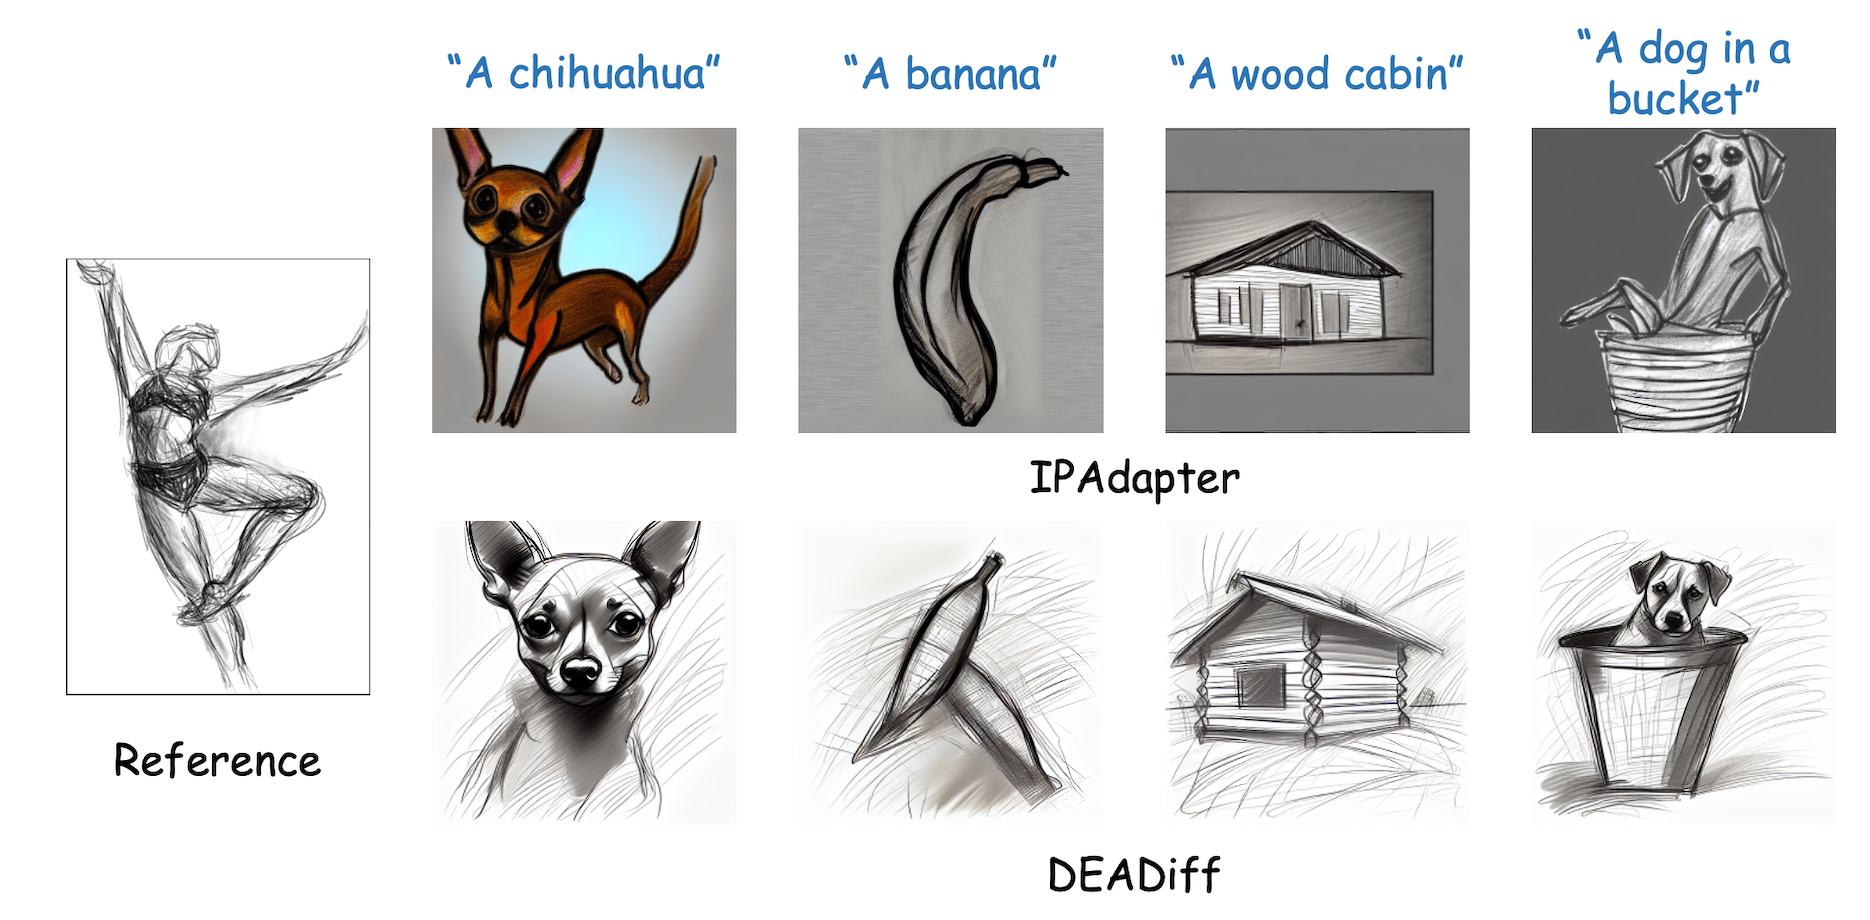
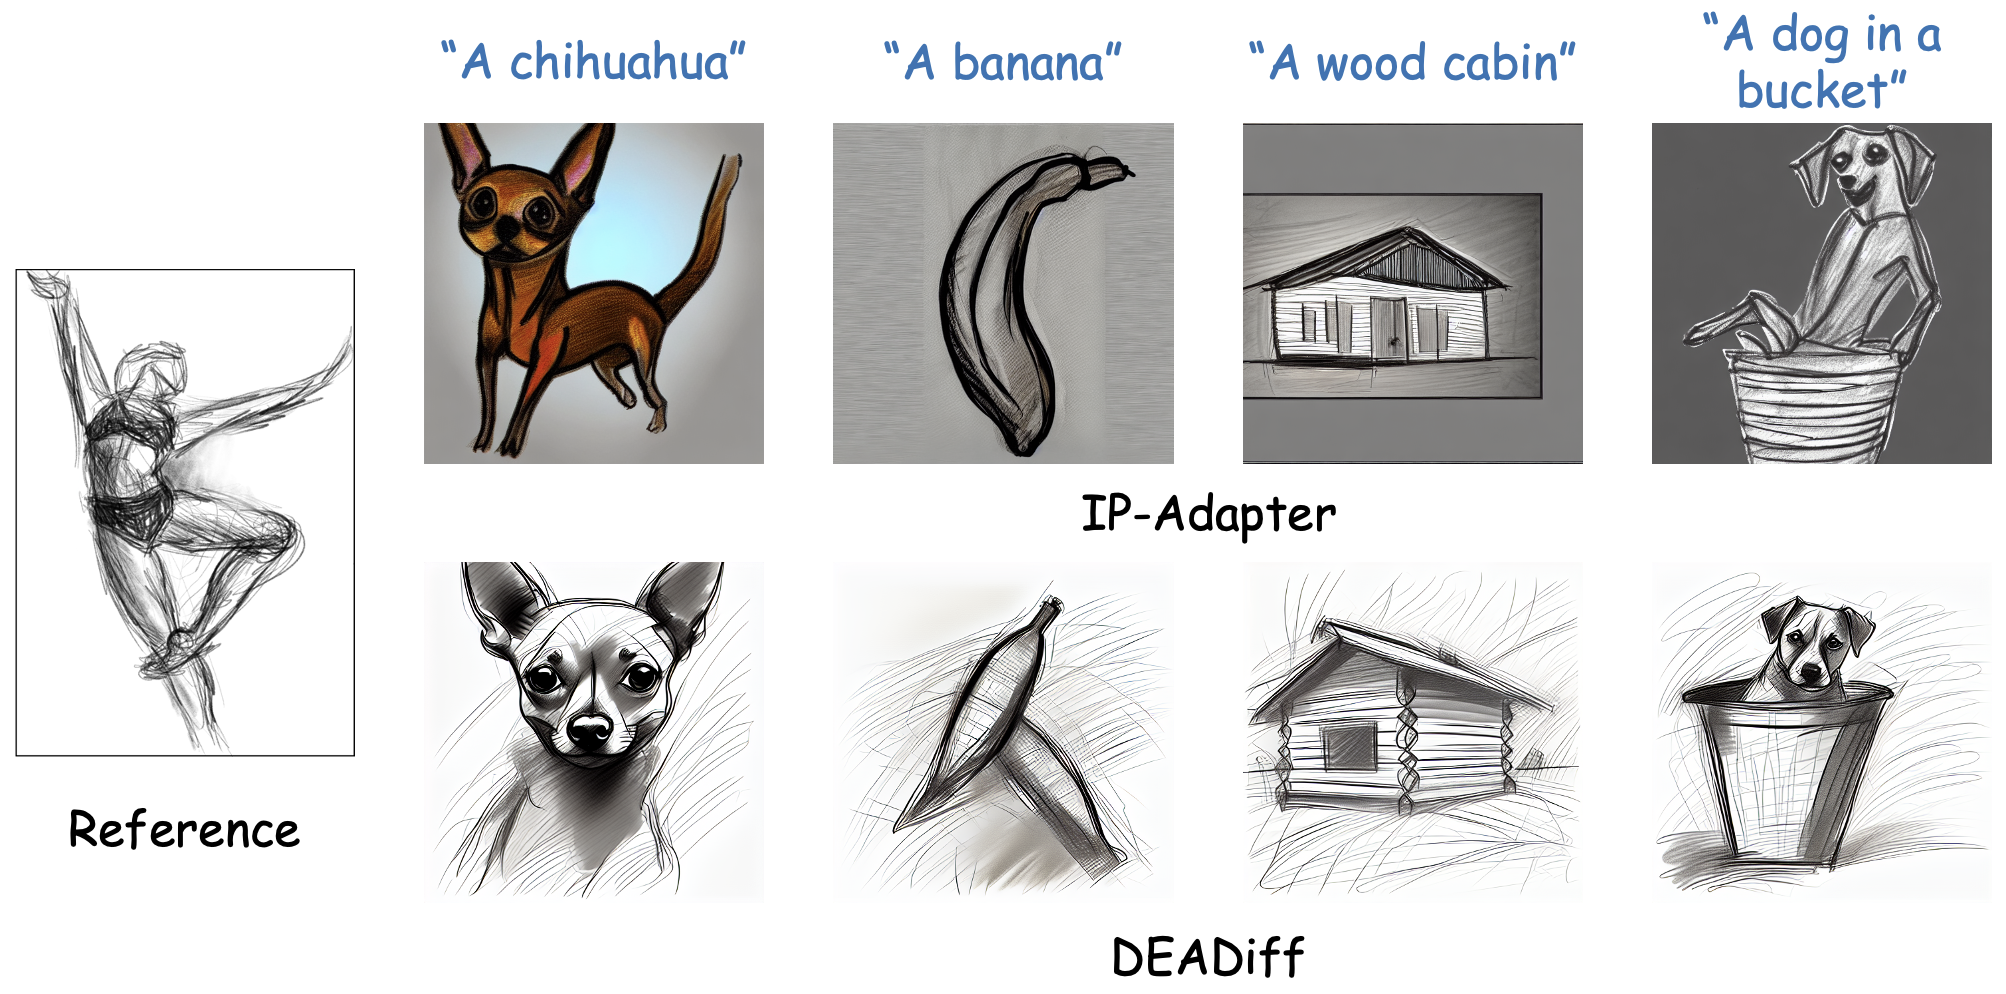
fix typos

diff --git a/index.html b/index.html
@@ -172,13 +172,13 @@
             <div class="content has-text-justified">
               <td colspan="3">
                 <p>
-                  <b>Core Idea:</b> To remove the interference of semantics from the reference image, only extract its style-relevant features and inject them into the layers responsible for capturing style features in the diffusion UNet.
+                  <b>Core Idea:</b> To remove the interference of semantics from the reference image, only extract its style-relevant features and inject them into the layers responsible for capturing style features in the diffusion U-Net.
                 </p>
                 <p>
-                  <b>Training paradigm:</b> Instruct the Q-Former on the condition of "style" and "condition" to selectively extract corresponding features and inject them into mutually exclusive subsets of cross-attention layers for better disentanglement between semantics and styles. Our constructed training dataset with three distinct types of paired reference and target image is utilized to equip the Q-Former with the capability of disentangled representation extraction.
+                  <b>Training Paradigm:</b> Instruct the Q-Former on the condition of "style" and "content" to selectively extract corresponding features and inject them into mutually exclusive subsets of cross-attention layers for better disentanglement between semantics and styles. Our constructed training dataset with three distinct types of paired reference and target image is utilized to equip the Q-Former with the capability of disentangled representation extraction.
                 </p>
                 <p>
-                  <b>Inference paradigm:</b> Inject the output queries of the Q-Former with ``style" conditions to fine layers of the diffusion UNet, which respond to style information rather than global semantics.
+                  <b>Inference Paradigm:</b> Inject the output queries of the Q-Former with "style" conditions to fine layers of the diffusion U-Net, which respond to style information rather than global semantics.
                 </p>
 
               </td>
@@ -207,12 +207,12 @@
 
               <td><img class="center" src="static/images/quantitative.png" alt=""/></td>
               <p>
-                <b>Quantitatively</b>: <b><i>DEADiff</i></b> achieves an optimal balance between text fidelity and image similarity with the most pleasing image quality. Meanwhile, the big margin achieved by <b><i>DEADiff</i></b> further demonstrates its broad application prospects.
+                <b>Quantitatively</b>: <b><i>DEADiff</i></b> achieves an optimal balance between text fidelity and style similarity with the most pleasing image quality. Meanwhile, the big margin in user preference achieved by <b><i>DEADiff</i></b> further demonstrates its broad application prospects.
               </p>
             </div>
           </div>
         </div>
-        <h2 class="title is-4 has-text-centered"><b style="color:#008AD7; font-weight:normal">&#x25B6 </b> Comparisons with IPAdapter</h2>
+        <h2 class="title is-4 has-text-centered"><b style="color:#008AD7; font-weight:normal">&#x25B6 </b> Comparisons with IP-Adapter</h2>
         <div id="results-carousel-ipadapter" class="carousel results-carousel">
 
           <div class="item item-puppet">
@@ -281,7 +281,7 @@
         </div> -->
         <p style="margin-bottom: 20px;"><br></p>
 
-        <h2 class="title is-4 has-text-centered"><b style="color:#008AD7; font-weight:normal">&#x25B6 </b> Style mixing</h2>
+        <h2 class="title is-4 has-text-centered"><b style="color:#008AD7; font-weight:normal">&#x25B6 </b> Style Mixing</h2>
         <div class="columns is-centered has-text-justified">
           <td colspan="3">
             <img src="static/images/style_mixing.png" alt="" width="1080" />
